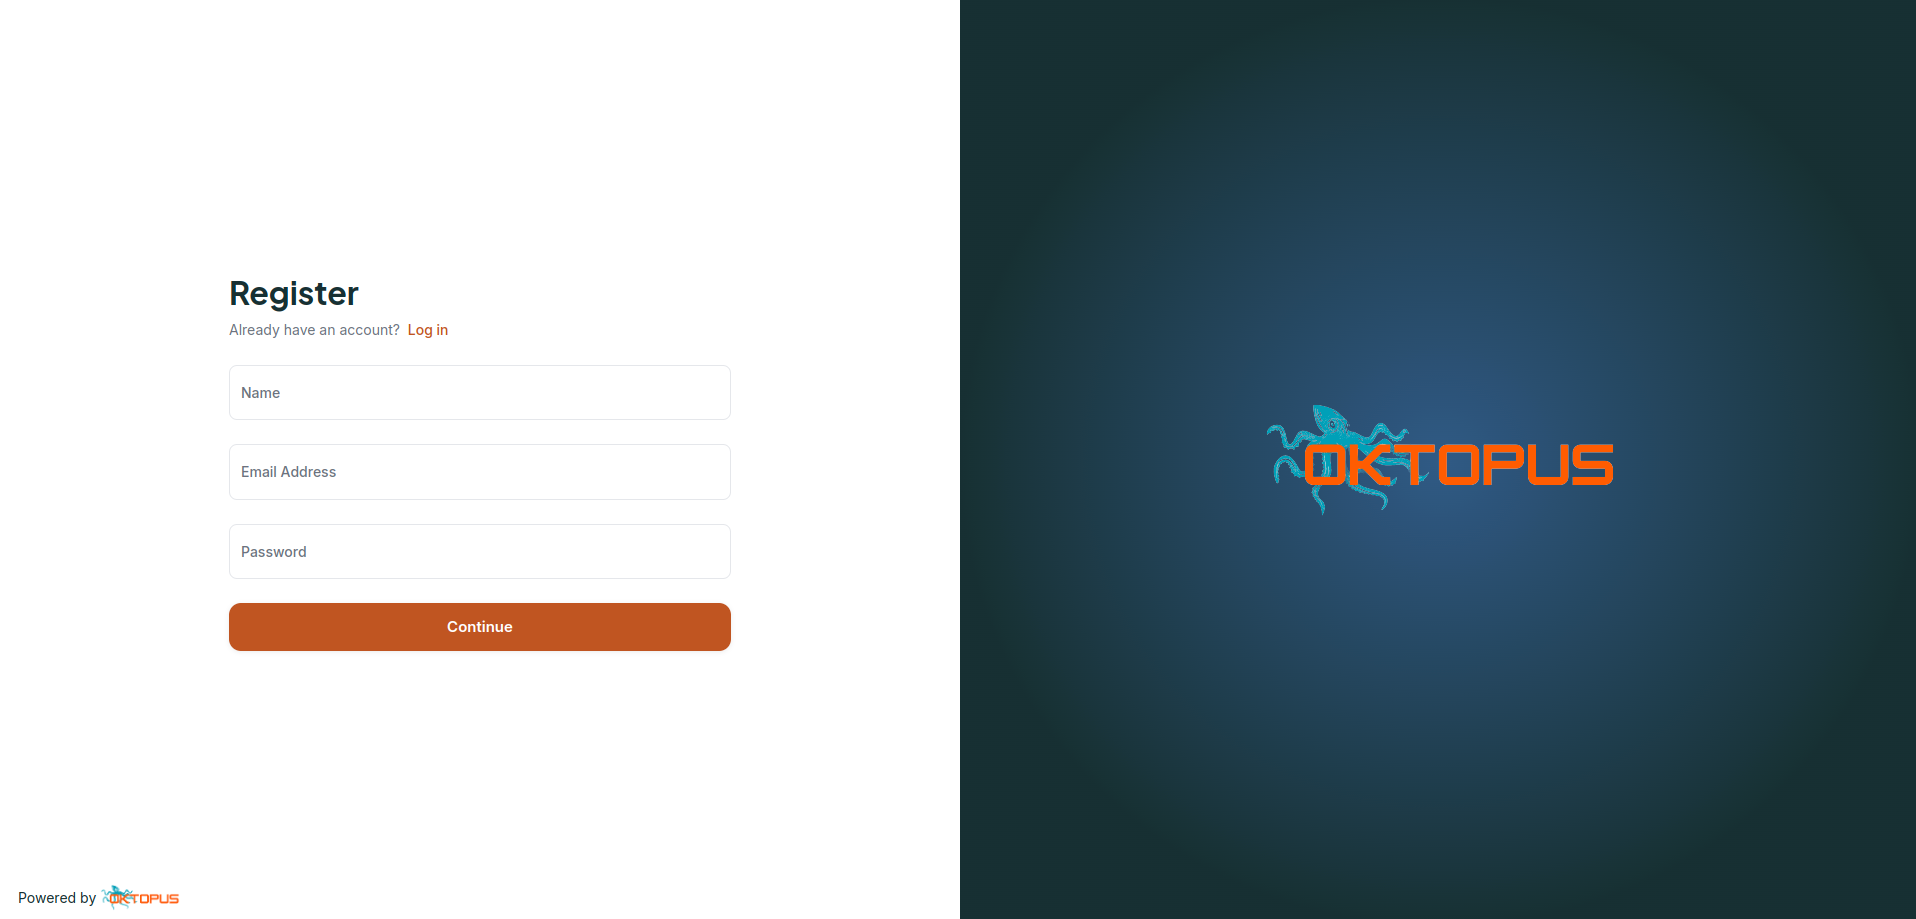
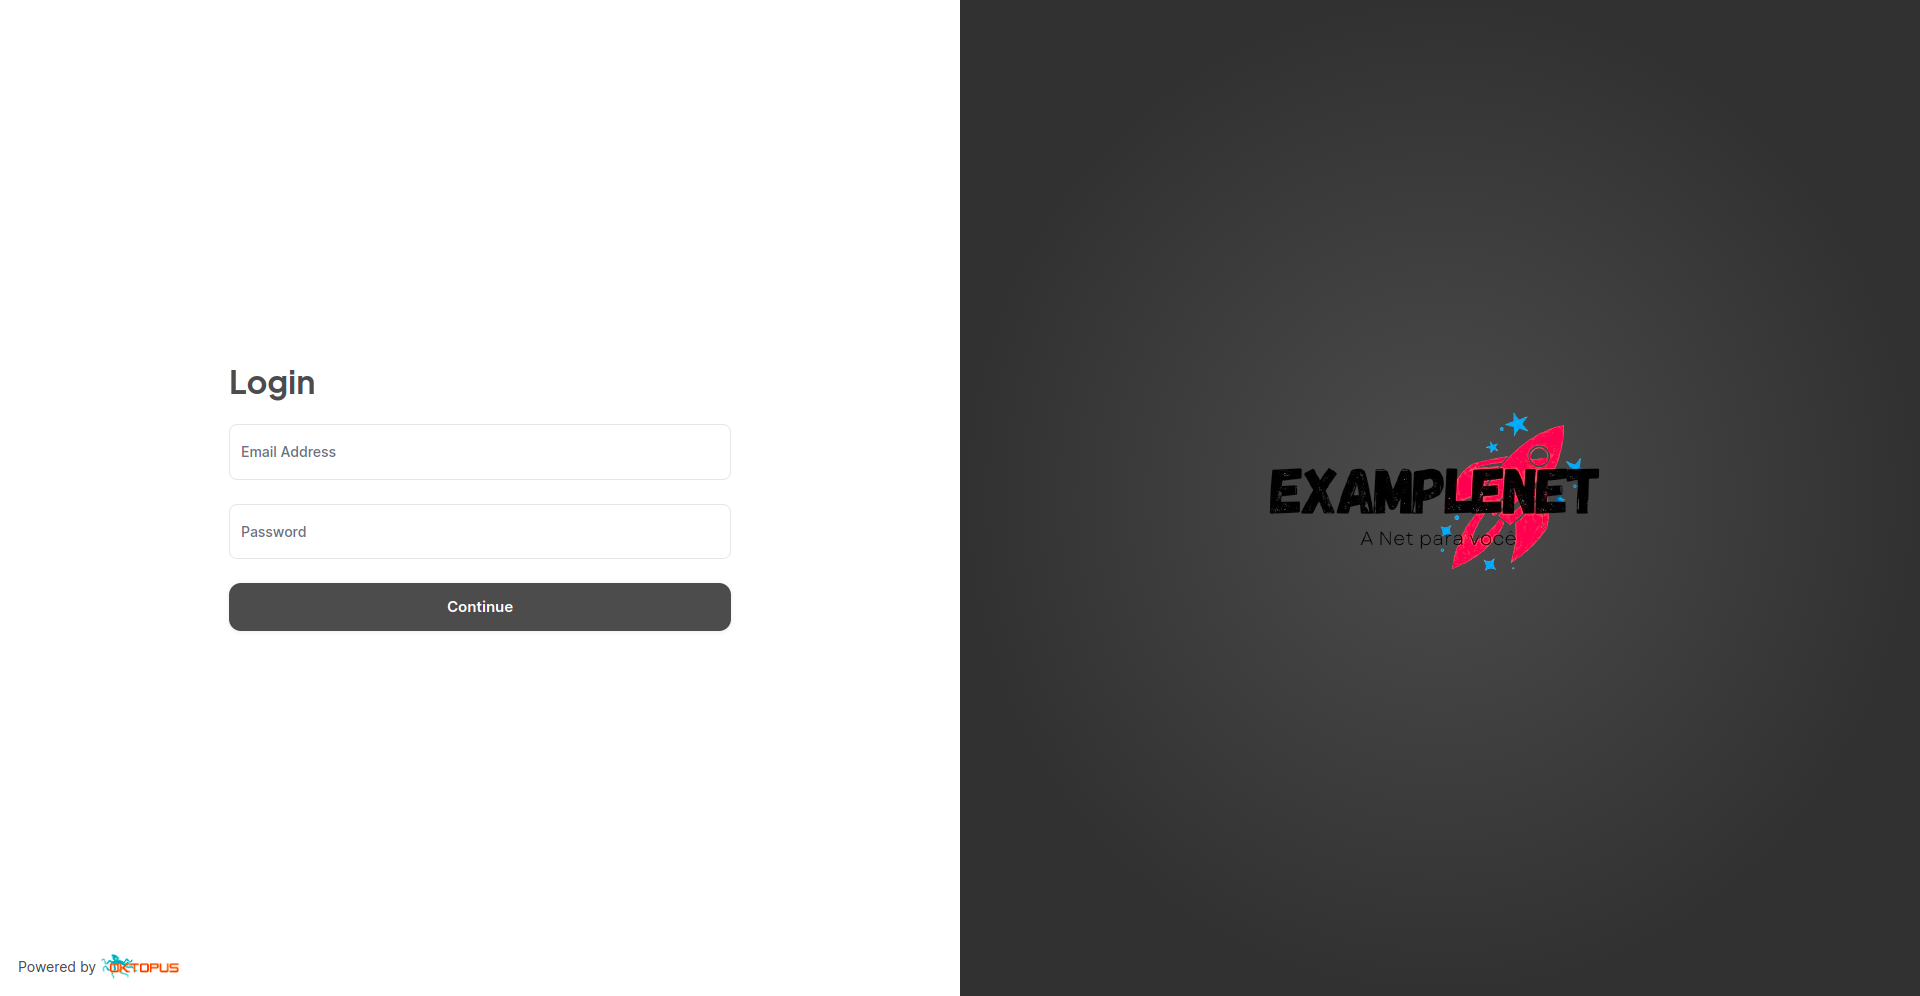
GITBOOK-24: No subject

diff --git a/getting-started/features/README.md b/getting-started/features/README.md
@@ -26,4 +26,5 @@ If you want to use Oktopus Controller at your company in a production environmen
 
 ## Comparision
 
-<table><thead><tr><th width="311">Feature</th><th data-type="checkbox">Community</th><th data-type="checkbox">Enterprise</th></tr></thead><tbody><tr><td>Dashboard Overview</td><td>true</td><td>true</td></tr><tr><td>Users Authentication</td><td>true</td><td>true</td></tr><tr><td>Devices Authentication</td><td>true</td><td>true</td></tr><tr><td><ul><li>MQTT</li><li>STOMP</li><li>Websockets</li><li>ACS</li></ul></td><td>true</td><td>true</td></tr><tr><td>Multi Tenancy</td><td>false</td><td>true</td></tr><tr><td>Device Parameters Discovery</td><td>true</td><td>true</td></tr><tr><td>Custom CWMP and USP Messages</td><td>true</td><td>true</td></tr><tr><td>WiFi management</td><td>false</td><td>true</td></tr><tr><td>Site Survey</td><td>false</td><td>true</td></tr><tr><td>List of devices connected to a CPE</td><td>false</td><td>true</td></tr><tr><td>Firmware Update</td><td>false</td><td>true</td></tr><tr><td>Reboot</td><td>false</td><td>true</td></tr><tr><td>Factory Reset</td><td>false</td><td>true</td></tr><tr><td>Ping</td><td>false</td><td>true</td></tr><tr><td>Traceroute</td><td>false</td><td>true</td></tr><tr><td>Mass Firmware Update</td><td>false</td><td>true</td></tr><tr><td>Device Geolocation</td><td>false</td><td>true</td></tr></tbody></table>
+<table><thead><tr><th width="311">Feature</th><th data-type="checkbox">Community</th><th data-type="checkbox">Enterprise</th></tr></thead><tbody><tr><td>Dashboard Overview</td><td>true</td><td>true</td></tr><tr><td>Users Authentication</td><td>true</td><td>true</td></tr><tr><td>Devices Authentication</td><td>true</td><td>true</td></tr><tr><td>Multi Tenancy</td><td>false</td><td>true</td></tr><tr><td>Custom UI Theme</td><td>false</td><td>true</td></tr><tr><td><p>Protocolos:</p><ul><li>MQTT</li><li>STOMP</li><li>Websockets</li><li>ACS</li></ul></td><td>true</td><td>true</td></tr><tr><td>Device Parameters Discovery</td><td>true</td><td>true</td></tr><tr><td>Custom CWMP and USP Messages</td><td>true</td><td>true</td></tr><tr><td>WiFi management</td><td>false</td><td>true</td></tr><tr><td>Site Survey</td><td>false</td><td>true</td></tr><tr><td>List of devices connected to CPE</td><td>false</td><td>true</td></tr><tr><td><p>Device Actions:</p><ul><li>Reboot</li><li>Factory Reset</li><li>Firmware Update</li></ul></td><td>false</td><td>true</td></tr><tr><td><p>Device Diagnostic Tools:</p><ul><li>Ping</li><li>Traceroute</li></ul></td><td>false</td><td>true</td></tr><tr><td>Mass Firmware Update</td><td>false</td><td>true</td></tr><tr><td>Device Geolocation</td><td>false</td><td>true</td></tr></tbody></table>
+

diff --git a/getting-started/architecture.md b/getting-started/architecture.md
@@ -14,15 +14,15 @@ layout:
 
 # Architecture
 
-Oktopus Controller backend is made up of some microservices written in [Go](https://go.dev/) because of the language versatility, speed, and small resource usage footprint. All the microservices communicate with each other through [NATS](https://nats.io/), which is a robust message system, really fast, built for IoT and edge applications.   The database picked is [MongoDB](https://www.mongodb.com/), which makes possible to have flexible data, saved in the right manner based on our needs.&#x20;
+Oktopus Controller backend is made up of some microservices written in [Go](https://go.dev/) because of the language versatility, speed, and small resource usage footprint. All the microservices communicate with each other through [NATS](https://nats.io/), which is a robust message system, really fast, built for IoT and edge applications. The database picked is [MongoDB](https://www.mongodb.com/), which makes possible to have flexible data, saved in the right manner based on our needs.&#x20;
 
 The frontend is made with the most modern frameworks and design system available in the market. It has the [Material UI ](https://mui.com/material-ui/getting-started/)components lib integrated with [NextJS](https://nextjs.org/), which ensures a smooth single page app experience.&#x20;
 
-<figure><img src="../.gitbook/assets/image (1) (1).png" alt=""><figcaption><p>High-Level Components</p></figcaption></figure>
+<figure><img src="../.gitbook/assets/image (1) (1) (1).png" alt=""><figcaption><p>High-Level Components</p></figcaption></figure>
 
 All the different protocols used to manage the devices are abstracted to NATS message system, this allow us to have different components/services deployed in different servers, and locations, as long as the connection to NATS cluster is maintained.
 
 Software components are deployed within [Docker](https://www.docker.com/) containers. The most straigthforward way to install Oktopus Controller is using docker compose. For high availability production environments we suggest to use Kubernetes.
 
-<figure><img src="../.gitbook/assets/image (1).png" alt=""><figcaption><p>Microservices Overview</p></figcaption></figure>
+<figure><img src="../.gitbook/assets/image (1) (1).png" alt=""><figcaption><p>Microservices Overview</p></figcaption></figure>
 

diff --git a/getting-started/architecture-1/README.md b/getting-started/architecture-1/README.md
@@ -19,11 +19,11 @@ Oktopus Controller backend is made up of some microservices written in [Go](http
 
 The frontend is made with the most modern frameworks and design system available in the market. It has the [Material UI ](https://mui.com/material-ui/getting-started/)components lib integrated with [NextJS](https://nextjs.org/), which ensures a smooth single page app experience.&#x20;
 
-<figure><img src="../../.gitbook/assets/image (1) (1).png" alt=""><figcaption><p>High-Level Components</p></figcaption></figure>
+<figure><img src="../../.gitbook/assets/image (1) (1) (1).png" alt=""><figcaption><p>High-Level Components</p></figcaption></figure>
 
 All the different protocols used to manage the devices are abstracted to NATS message system, this allow us to have different components/services deployed in different servers, and locations, as long as the connection to NATS cluster is maintained.
 
 Software components are deployed within [Docker](https://www.docker.com/) containers. The most straigthforward way to install Oktopus Controller is using docker compose. For high availability production environments we suggest to use Kubernetes.
 
-<figure><img src="../../.gitbook/assets/image (1).png" alt=""><figcaption><p>Microservices Overview</p></figcaption></figure>
+<figure><img src="../../.gitbook/assets/image (1) (1).png" alt=""><figcaption><p>Microservices Overview</p></figcaption></figure>
 

diff --git a/getting-started/features/enterprise.md b/getting-started/features/enterprise.md
@@ -78,3 +78,8 @@ Keep charge of the regions where you can expand your business, the places where 
 
 <figure><img src="../../.gitbook/assets/image (27).png" alt=""><figcaption><p>Plain Map Device Location View</p></figcaption></figure>
 
+## Custom UI Theme
+
+Fully customizable user interface, with your company's logo and theme. Increase your customers' confidence in your solution and the credibility of your brand, with the same functionalities as the standard web interface version.
+
+<figure><img src="../../.gitbook/assets/image.png" alt=""><figcaption></figcaption></figure>

diff --git a/getting-started/installation/README.md b/getting-started/installation/README.md
@@ -28,4 +28,4 @@ wget https://github.com/OktopUSP/oktopus/archive/refs/heads/main.zip && unzip ma
 
 The web interface will become accessible at port 80:
 
-<figure><img src="../../.gitbook/assets/image.png" alt=""><figcaption><p>Oktopus web first acces</p></figcaption></figure>
+<figure><img src="../../.gitbook/assets/image (1).png" alt=""><figcaption><p>Oktopus web first acces</p></figcaption></figure>
